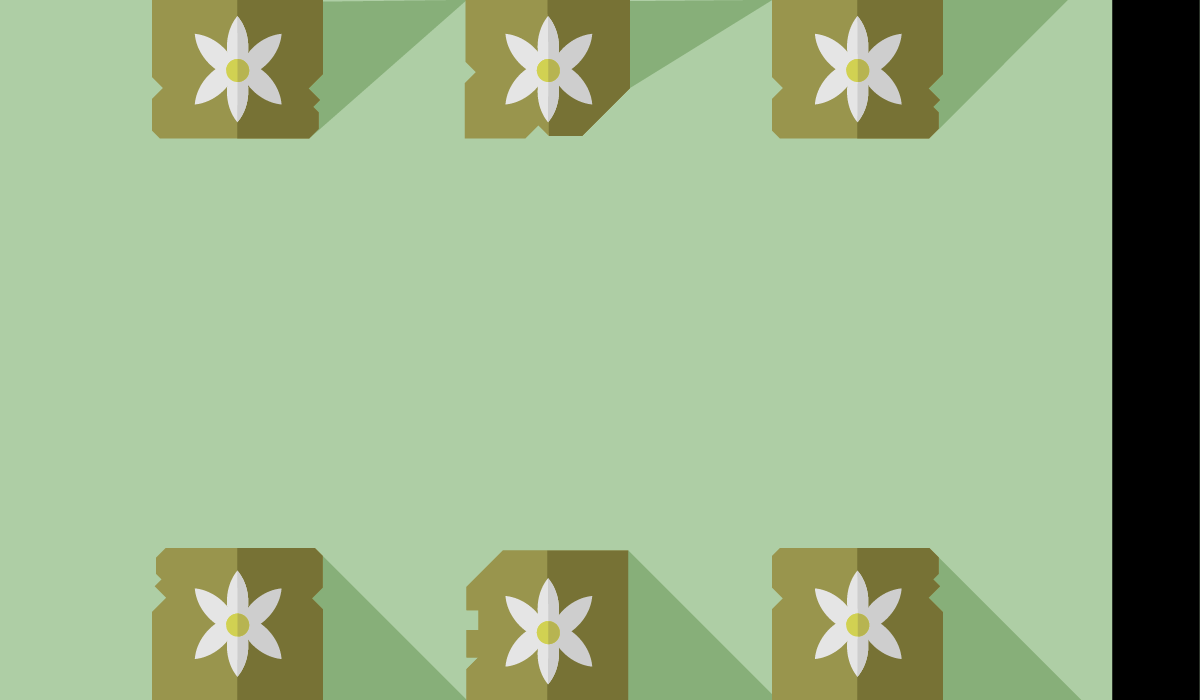
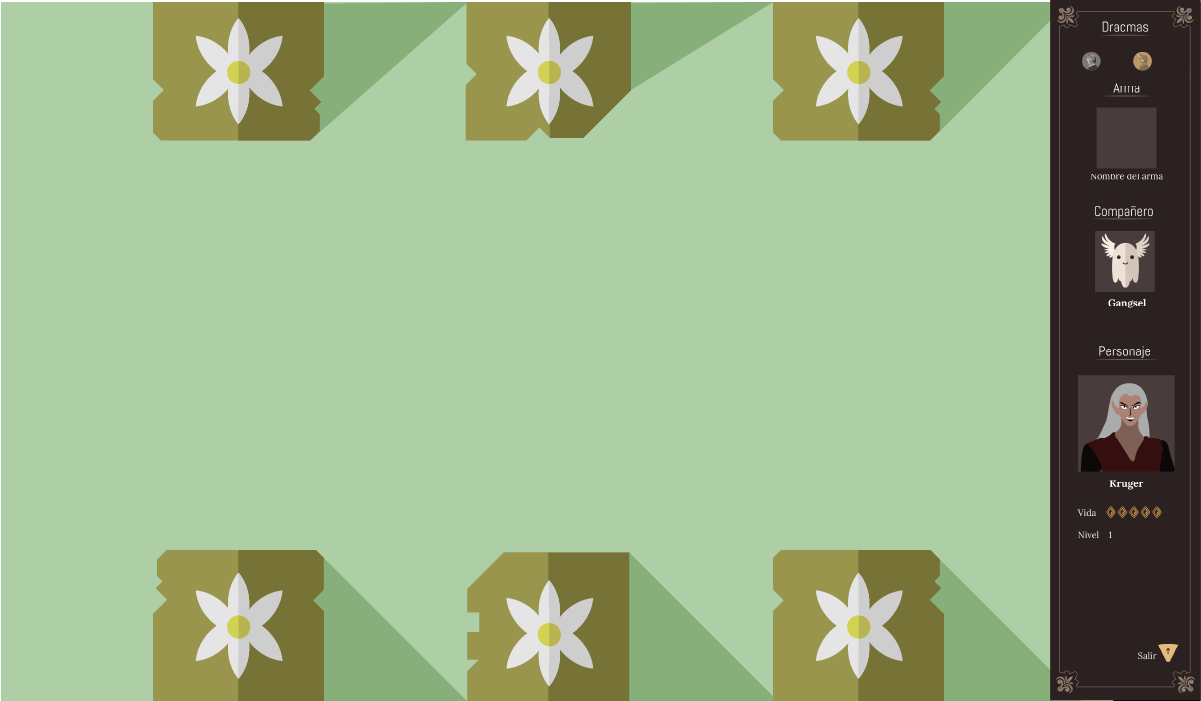
ahí vamos

diff --git a/Infernus/src/Principal.java b/Infernus/src/Principal.java
@@ -15,8 +15,9 @@ public class Principal extends PApplet {
 	Kruger kruger;
 	Nivel1 uno;
 	Nivel2 dos; 
-	/*Nivel3 tres; Nivel4 cuatro; Nivel5 cinco; Nivel6 seis; Nivel7
-	 * siete; Nivel8 ocho; Nivel9 nueve;
+	/*Nivel3 tres; Nivel4 cuatro; Nivel5 cinco; Nivel6 seis; */
+	Nivel7 siete;
+	 /*siete; Nivel8 ocho; Nivel9 nueve;
 	 */
 //ARREGLOS
 	ArrayList<Villano> misCaballeros;
@@ -65,6 +66,7 @@ public class Principal extends PApplet {
 		inicio = true;
 		uno = new Nivel1(0, 0, this);
 		dos = new Nivel2(0, 0, this);
+		siete = new Nivel7(0, 0, this);
 
 	}
 
@@ -127,7 +129,7 @@ public class Principal extends PApplet {
 				}
 			}
 			if (kruger.getX()>1050) {
-				pantalla=4;
+				pantalla=7;
 				kruger.reset();
 			}
 			break;
@@ -139,8 +141,18 @@ public class Principal extends PApplet {
 		case 5:
 			
 			break;
+//NIVEL5
 		case 6:
 			
+			break;
+//NIVEL6
+		case 7:
+			siete.pintar(this);
+			kruger.pintar(this);	
+			break;
+//NIVEL7
+		case 8:
+						
 			break;
 		default:
 			break;

diff --git a/Infernus/src/Nivel7.java b/Infernus/src/Nivel7.java
@@ -1,0 +1,26 @@
+import processing.core.PApplet;
+import processing.core.PImage;
+
+public class Nivel7 {
+
+		public int x;
+		public int y;
+		PImage escenario;
+
+		public Nivel7(int x, int y, PApplet app) {// constructor
+			this.x = x;
+			this.y = y;
+			escenario = app.loadImage("7.png");
+		}
+		
+		public void pintar(PApplet app) { // app cuenta como objeto de PApplet
+			app.image(escenario, x, y);
+		}
+		
+		public int getX() {
+			return x;
+		}
+		public int getY() {
+			return y;
+		}
+	}
